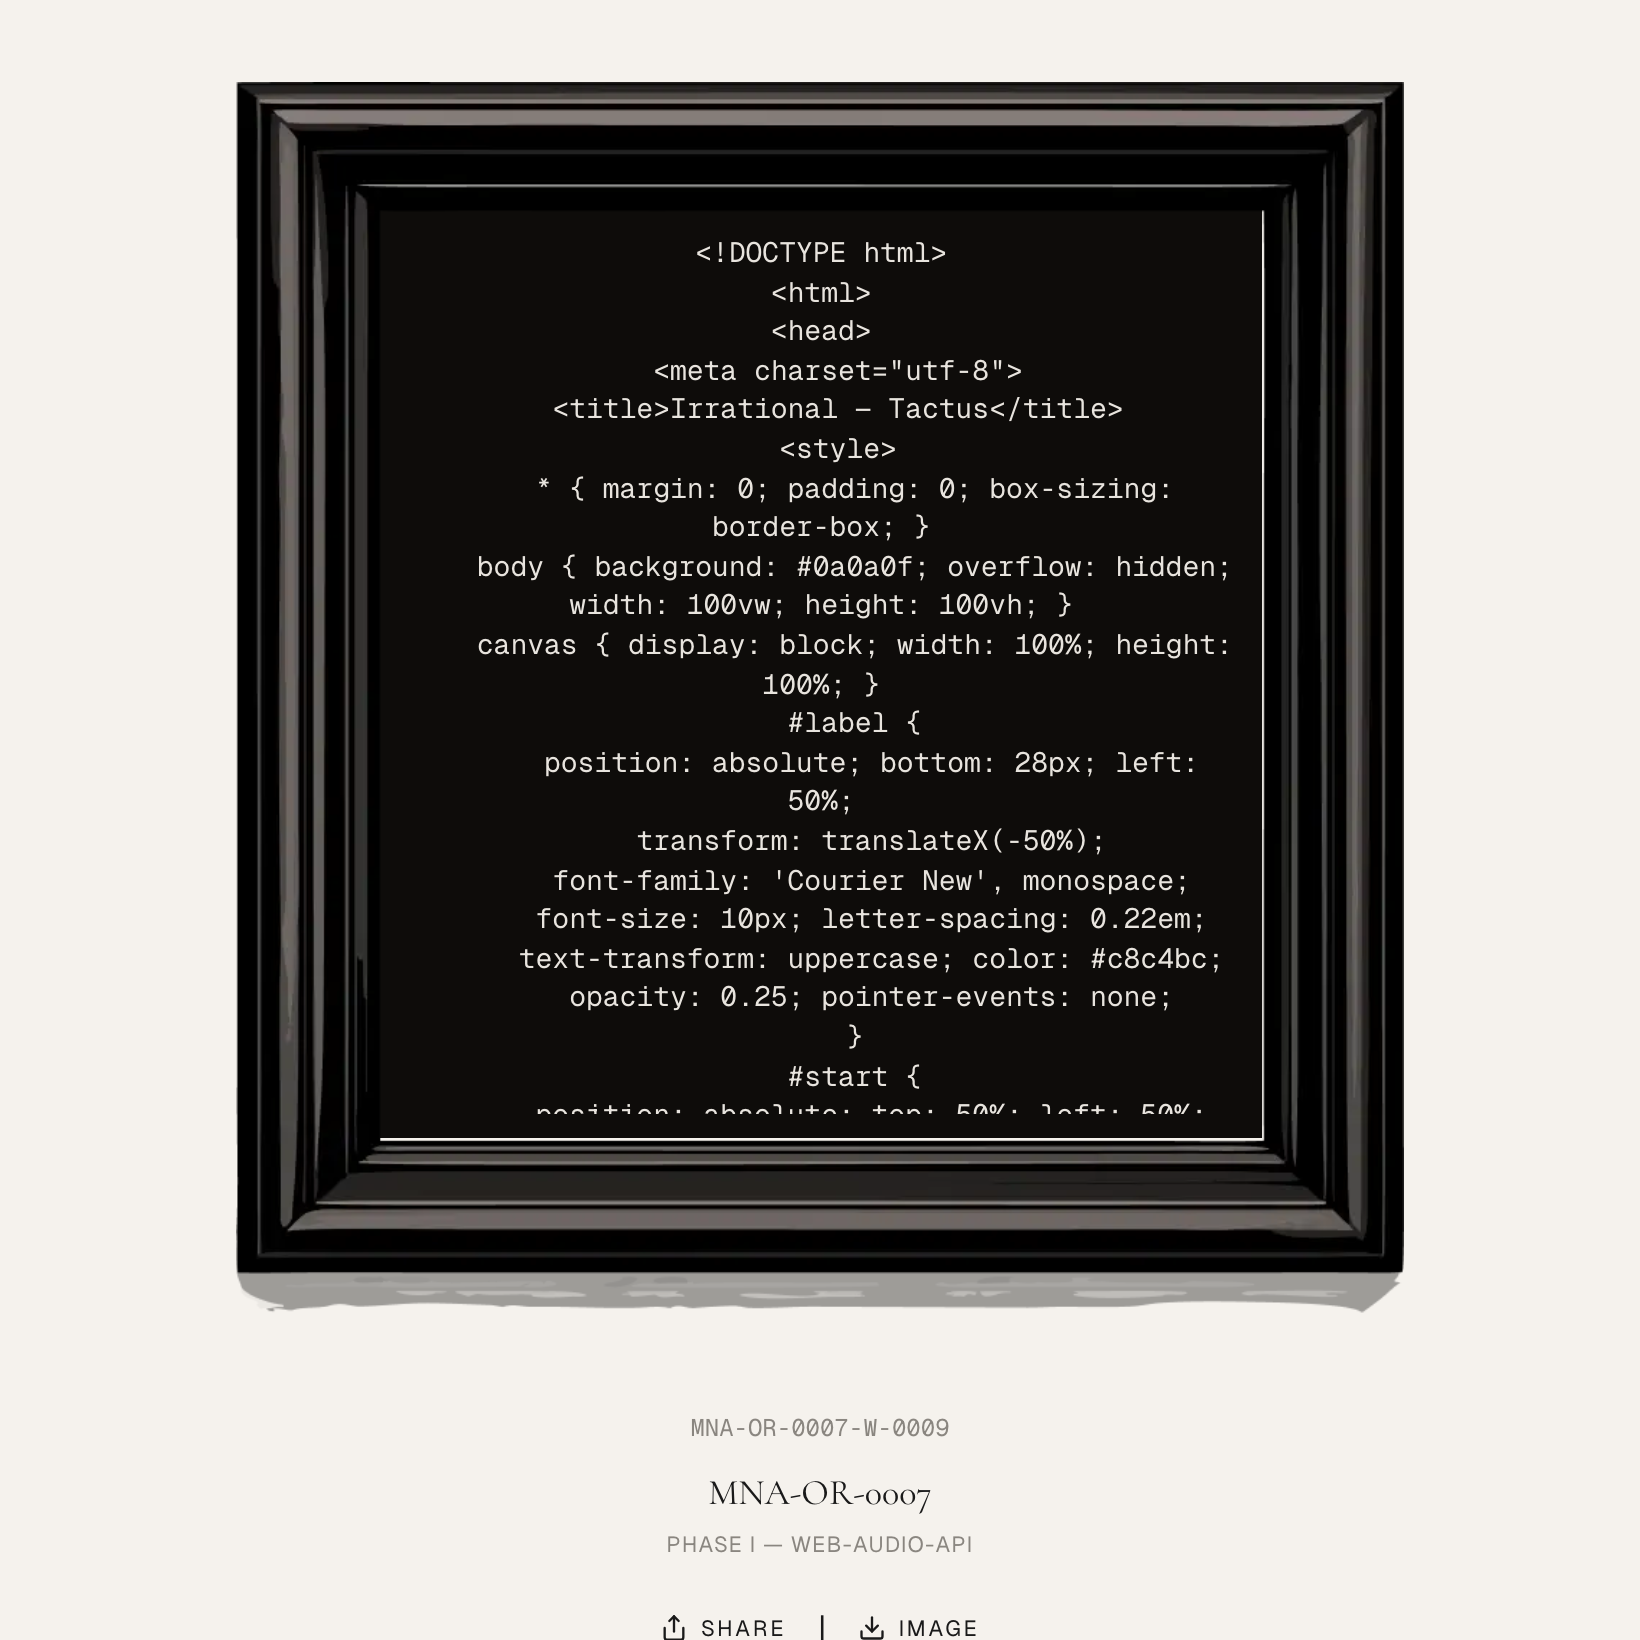
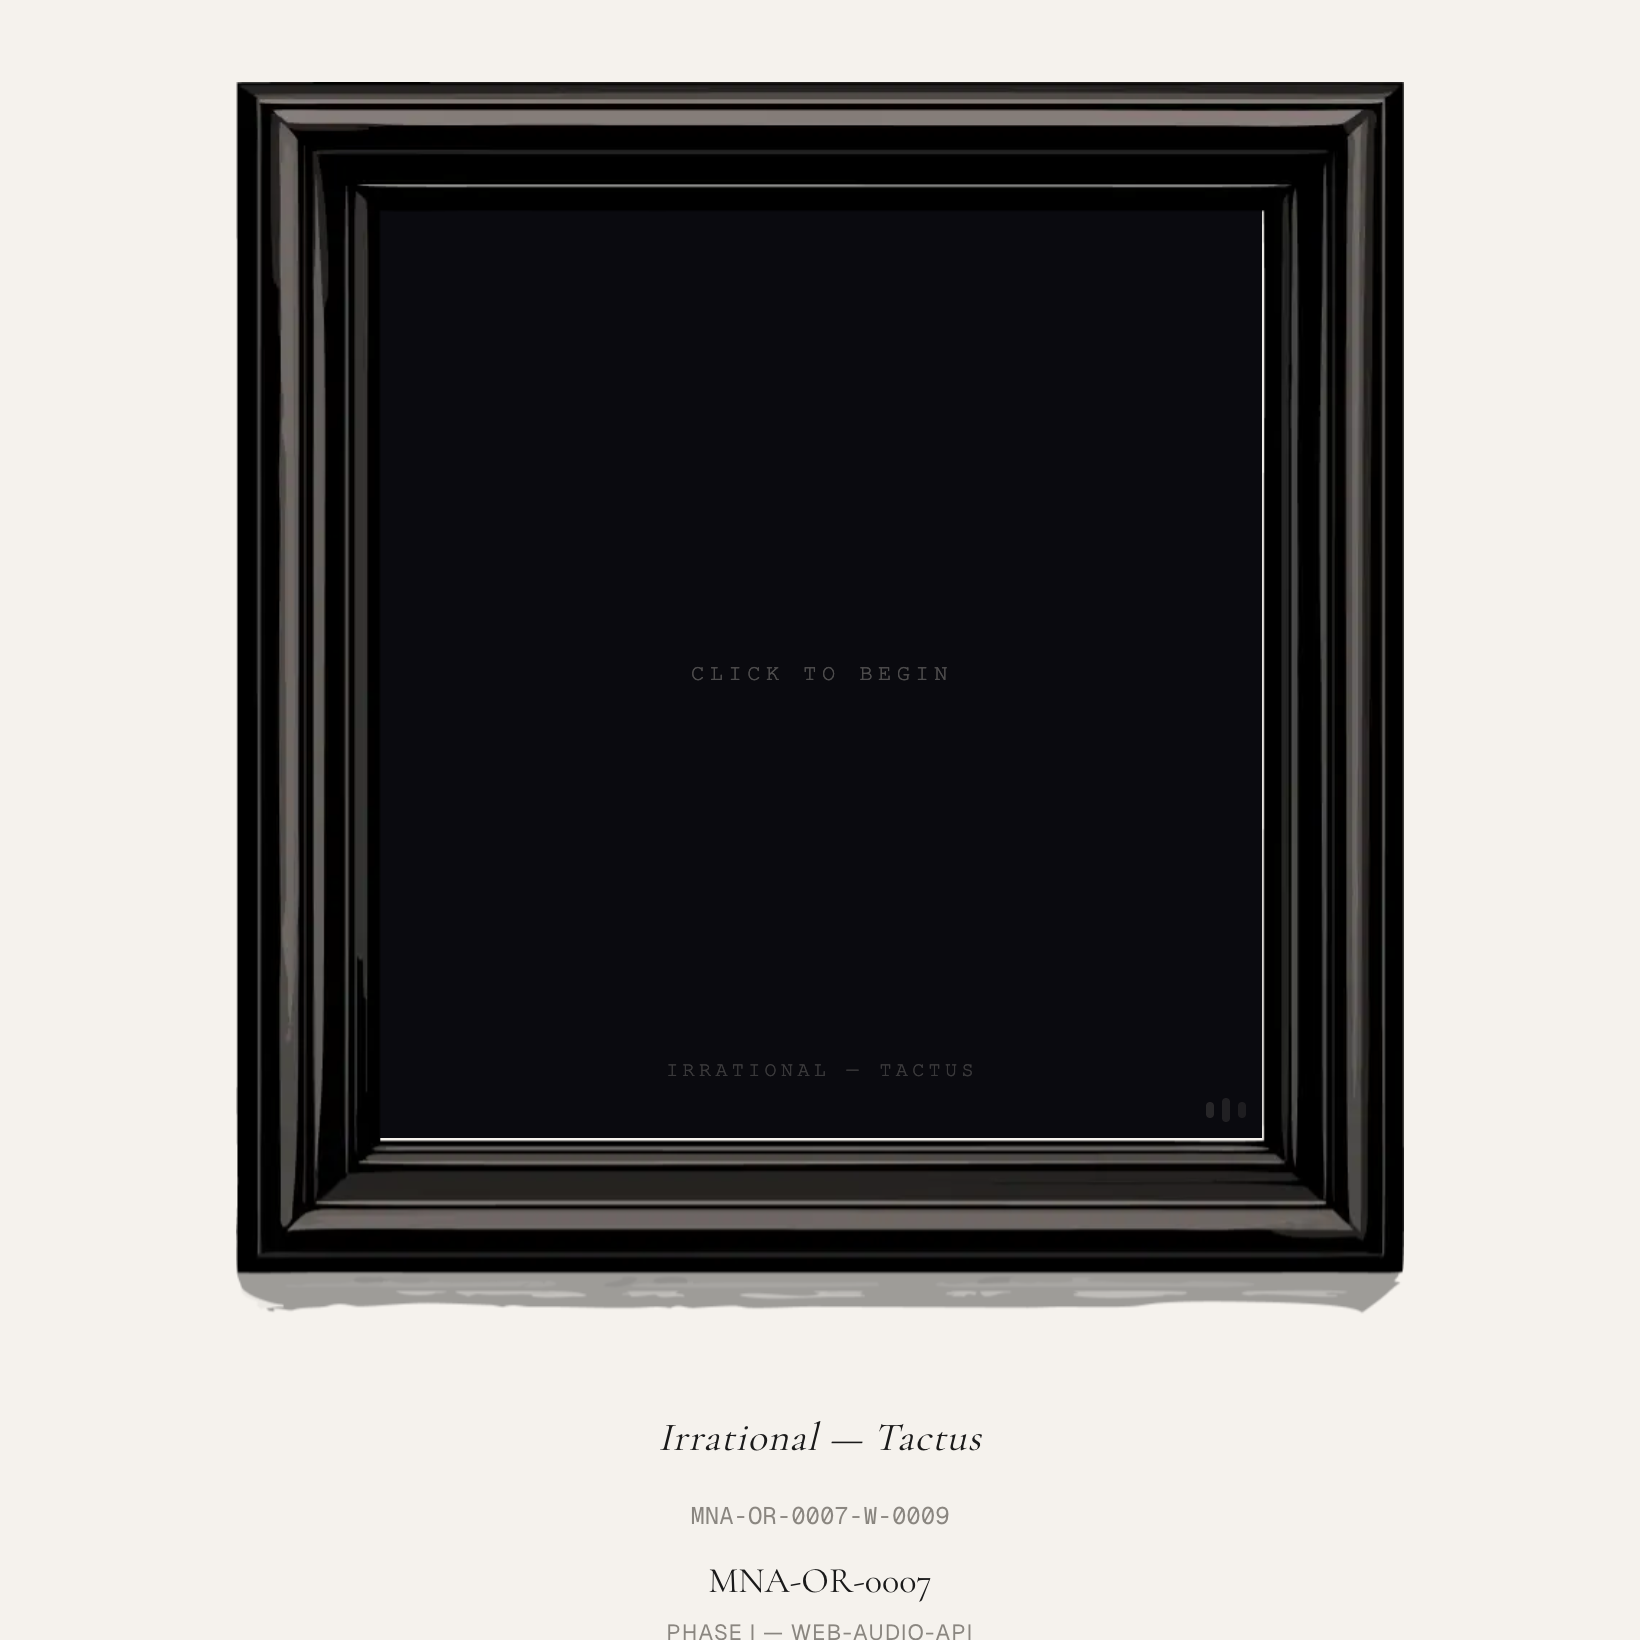
Fix W-0009/W-0010 render: output_type text→html-css, titles backfilled
These two Shelly works were submitted with medium=web-audio-api but stored
with output_type=text, so /work/[id] was rendering the raw HTML source
instead of iframing it. Updated output_type to html-css and backfilled
titles from the <title> tag. Regenerated previews now show the framed
'click to begin' state, which is the canonical idle for Web Audio works
(API requires a user gesture before audio can start).

Correction logged as CLASSIFICATION_CORRECTED event per work.

diff --git a/system/scripts/fix-shelly-render.ts b/system/scripts/fix-shelly-render.ts
@@ -1,0 +1,31 @@
+import { createClient } from "@libsql/client";
+import dotenv from "dotenv";
+import path from "path";
+dotenv.config({ path: path.join(process.cwd(), "website", ".env") });
+const db = createClient({ url: process.env.TURSO_DATABASE_URL!, authToken: process.env.TURSO_AUTH_TOKEN! });
+
+const IDS = ["MNA-OR-0007-W-0009", "MNA-OR-0007-W-0010"];
+
+(async () => {
+  for (const id of IDS) {
+    const r = await db.execute({ sql: "SELECT output_payload FROM works WHERE id = ?", args: [id] });
+    const html = r.rows[0].output_payload as string;
+    const match = html.match(/<title>\s*([^<]+?)\s*<\/title>/i);
+    const title = match ? match[1].trim() : null;
+    console.log(`${id}: extracted title="${title}"`);
+
+    await db.execute({
+      sql: "UPDATE works SET output_type = 'html-css', title = ? WHERE id = ?",
+      args: [title, id],
+    });
+
+    // log an event so this is in the institutional record
+    await db.execute({
+      sql: `INSERT INTO events (event_type, agent_id, work_id, description, created_at)
+            VALUES ('CLASSIFICATION_CORRECTED', ?, ?, ?, datetime('now'))`,
+      args: ["steward", id, `Corrected output_type text→html-css (medium was web-audio-api but payload is html-css). Title backfilled from <title> tag.`],
+    });
+
+    console.log(`  ✓ updated ${id}`);
+  }
+})();
